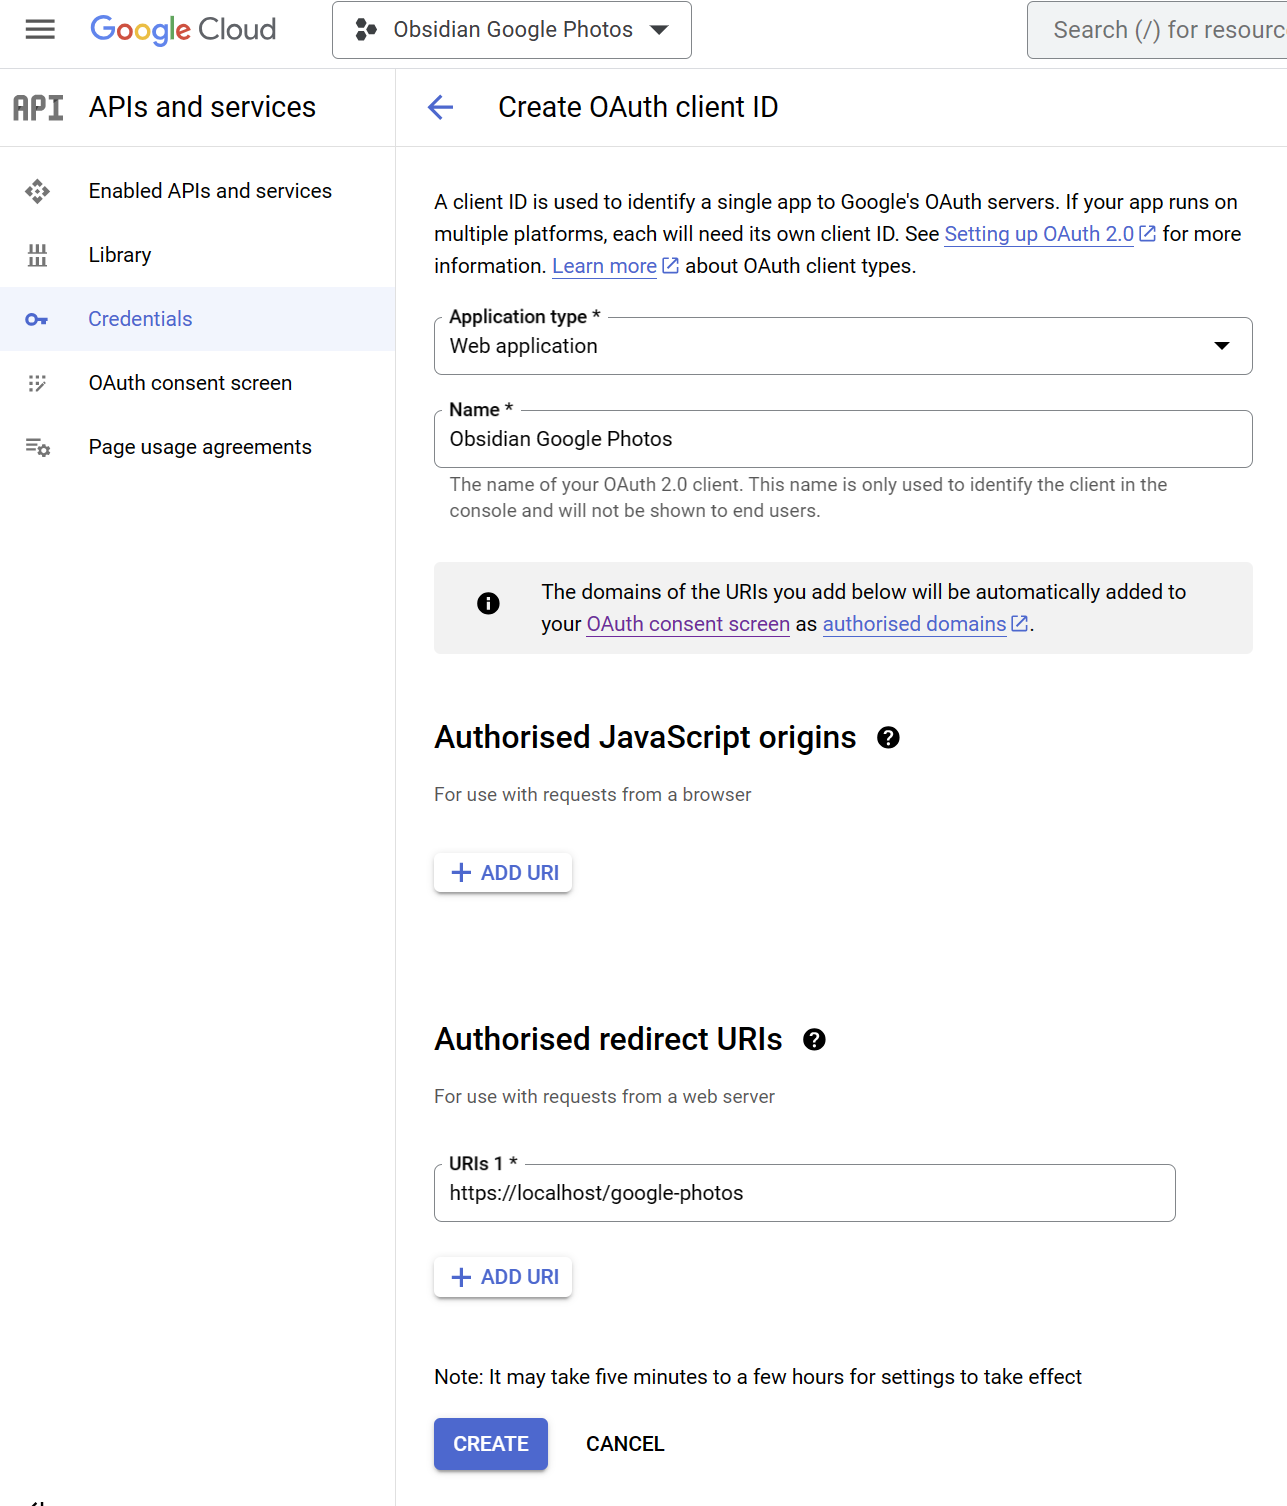
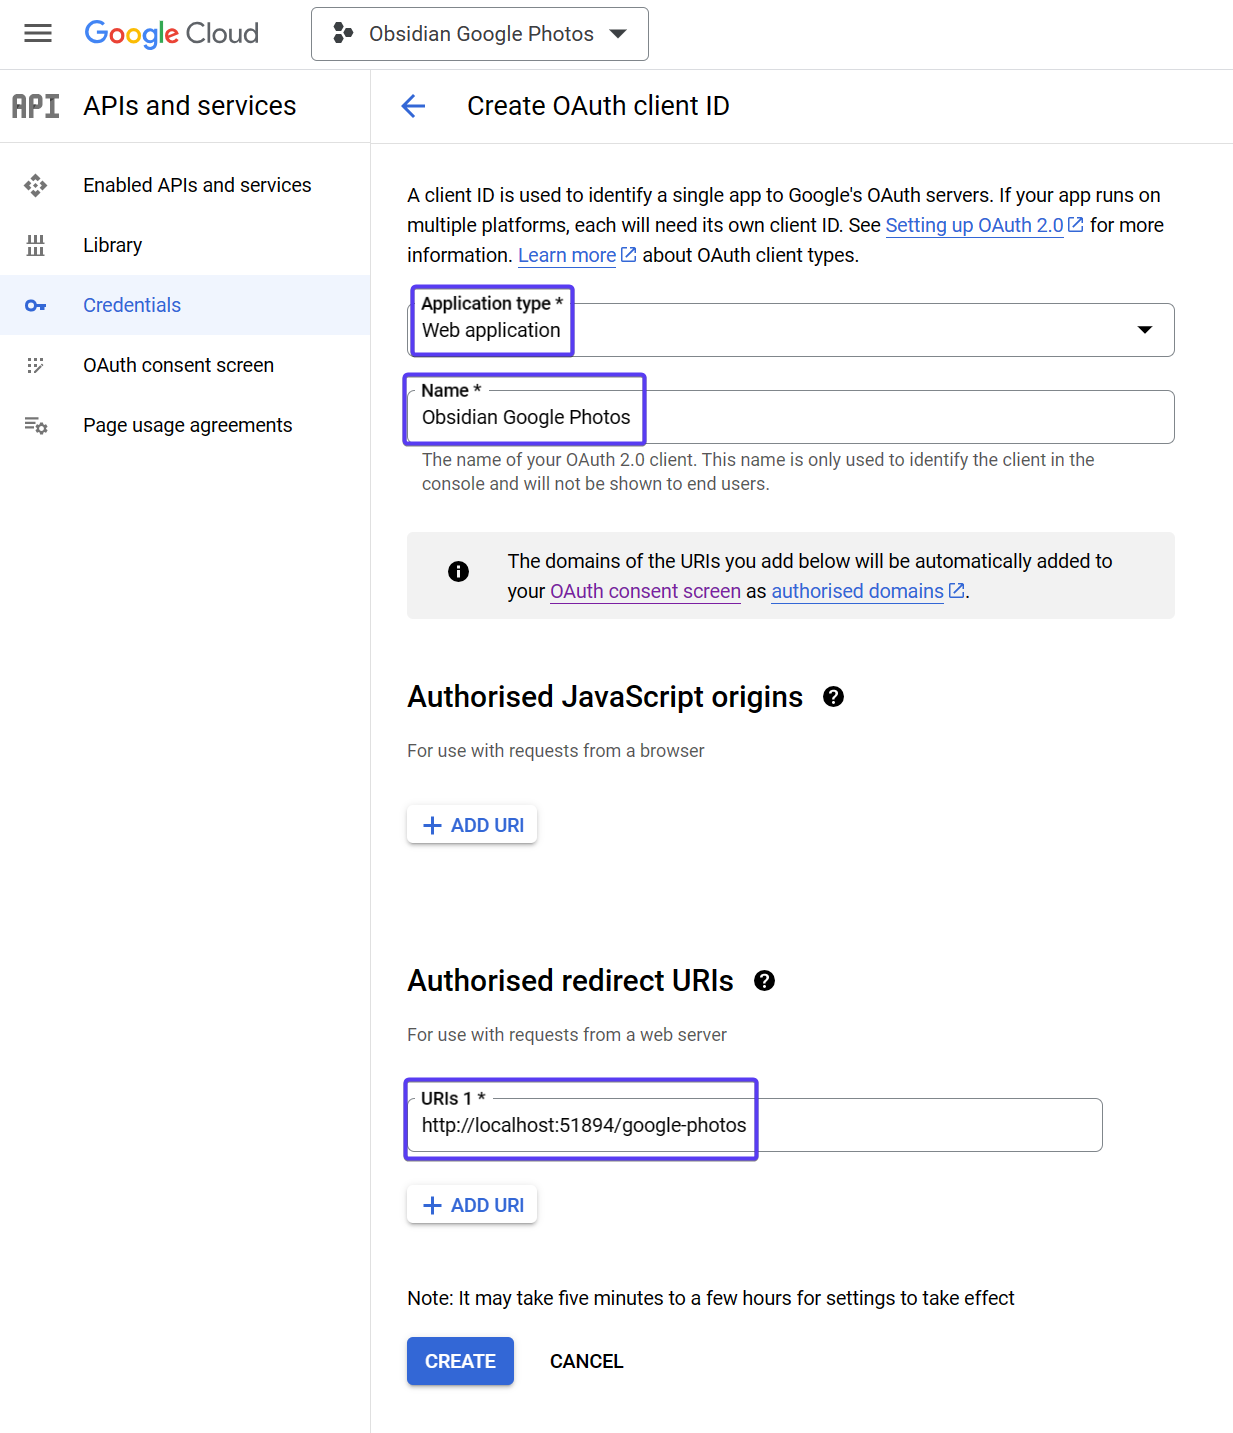
Update docs

diff --git a/docs/Setup.md b/docs/Setup.md
@@ -8,7 +8,7 @@ To connect to Google Photos from a third-party plugin, you will need to create a
 
 2. Create a new project and give it any name you like. "Obsidian Google Photos" is a good choice.
 
-<img src="images/create-project.png" width="400">
+<img src="images/create-project.png" width="500">
 
 3. Click Create. Once the new project has been created, ensure that it is selected in the top menubar:
 
@@ -21,41 +21,49 @@ To connect to Google Photos from a third-party plugin, you will need to create a
 5. Search for "photos", then choose the Photos API, and then **Enable**:
 
 <img src="images/photos-api.png" width="500">
-
+<br>
 <img src="images/enable-photos.png" width="400">
 
-6. Click on **Credentials** > **Create credentials** > **OAuth client ID**:
+6. Click on **OAuth consent screen**, choose **External** and click **Create**:
 
-<img src="images/credentials.png" width="560">
+<img src="images/oauth-consent.png" width="560">
 
-7. Consent screen 1 + 2
+7. Fill in these fields:
+
+- **App name**: Any name, "Obsidian Google Photos" is a good idea.
+- **User support email:** Your own Gmail address.
+- **Developer contact information:** Your own Gmail address.
 
 <img src="images/consent1.png" width="560">
-
+<br>
 <img src="images/consent2.png" width="560">
+
+And click **Save and continue**.
 
 8. On the **Scopes** page, just click **Save and continue**.
 
-9. On the **Test users** page, add yourself as a test user and click **Save and continue**. 
+9. On the **Test users** page, add yourself as a test user and click **Save and continue**.
 
-10. Click back into the client ID
+10. Click on **Credentials** > **Create credentials** > **OAuth client ID**:
 
-<img src="images/click-back.png" width="400">
+<img src="images/credentials.png" width="560">
 
-Copy the client ID and secret
+11. Fill in these fields:
 
-<img src="images/client-id-secret.png" width="400">
+- **Application type:** Web application
+- **Name:** Any name, "Obsidian Google Photos"
+- **Authorised redirect URIs:** `http://localhost:51894/google-photos`
 
+<img src="images/oauth-client-id.png" width="650">
 
+And click **Create**.
 
-4. Fill in these settings for the OAuth configuration screen:
+12. Click back into the client ID
 
-Redirect URI: `https://localhost/google-photos`
+<img src="images/click-back.png" width="500">
 
-![x200](../img/setup-oauth.png)
+13. Copy the client ID and secret. These are the two values you need to put into the plugin settings.
 
-5. Click **Create**.
+<img src="images/client-id-secret.png" width="500">
 
-6. Copy the `Client ID` and `Client Secret`. You will need to add these values into the Obsidian plugin settings:
-
-![](../img/setup-client-conf.png)
+14. Painful? Yes. I absolutely agree. But that's it, you're done!
